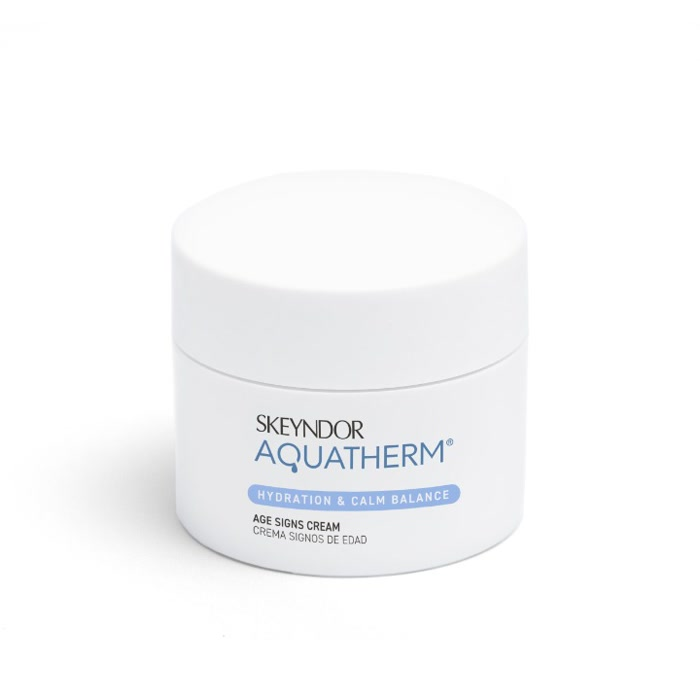
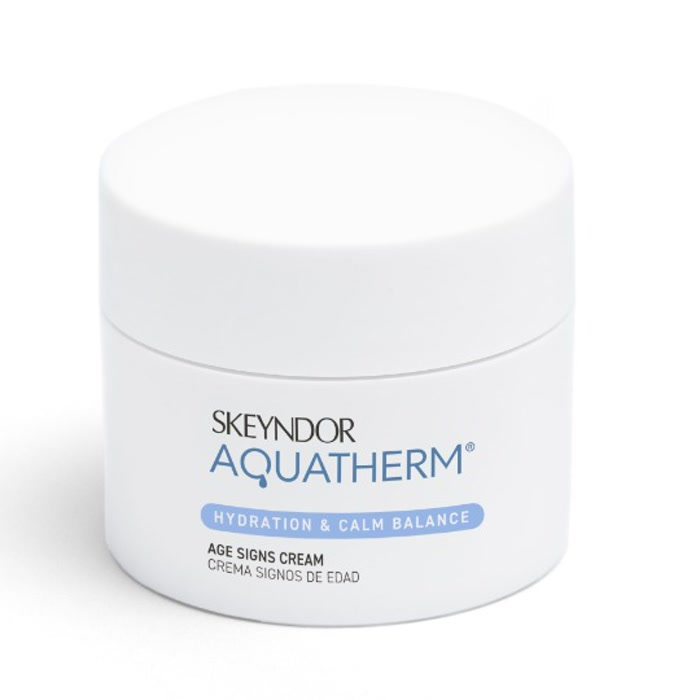
Corregir imagen de producto y reforzar cabecera

diff --git a/offer-refinement.css b/offer-refinement.css
@@ -1,6 +1,6 @@
 .hero-visual {
   background:
-    linear-gradient(90deg, rgba(246,244,239,.62) 0%, rgba(246,244,239,.30) 28%, rgba(246,244,239,0) 48%, rgba(246,244,239,0) 56%),
+    linear-gradient(90deg, rgba(246,244,239,.56) 0%, rgba(246,244,239,.23) 28%, rgba(246,244,239,0) 46%, rgba(246,244,239,0) 54%),
     url('assets/hero-megan.jpg') 66% center/cover no-repeat;
 }
 
@@ -36,7 +36,7 @@
 @media (max-width: 760px) {
   .hero-visual {
     background:
-      linear-gradient(180deg, rgba(246,244,239,.60) 0%, rgba(246,244,239,.25) 37%, rgba(246,244,239,0) 66%),
+      linear-gradient(180deg, rgba(246,244,239,.54) 0%, rgba(246,244,239,.18) 37%, rgba(246,244,239,0) 64%),
       url('assets/hero-megan.jpg') 56% center/cover no-repeat;
   }
   .offer-includes { align-items: flex-start; gap: 14px; padding: 14px; }

diff --git a/index.html b/index.html
@@ -63,7 +63,7 @@
         <p>Sesión profesional en cabina de 75 minutos</p>
         <div class="price"><strong>80 €</strong></div>
         <div class="offer-includes">
-          <img src="assets/aquatherm-crema.png" alt="Crema Aquatherm de Skeyndor de regalo" loading="lazy" />
+          <img src="assets/aquatherm-crema.jpg" alt="Crema Aquatherm de Skeyndor de regalo" loading="lazy" />
           <p><strong>Crema Aquatherm de Skeyndor de regalo</strong><br>La profesional seleccionará la más adecuada para tu piel: SOS calmante, crema signos de la edad o crema intensiva para pieles normales a secas. Valor de hasta 57,35 €.</p>
         </div>
         <p class="small">Solo 15 reservas</p>
